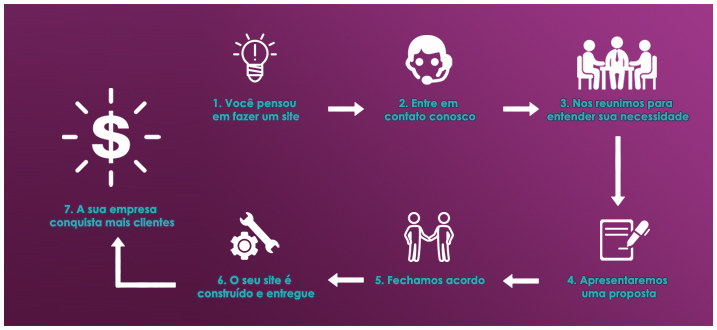
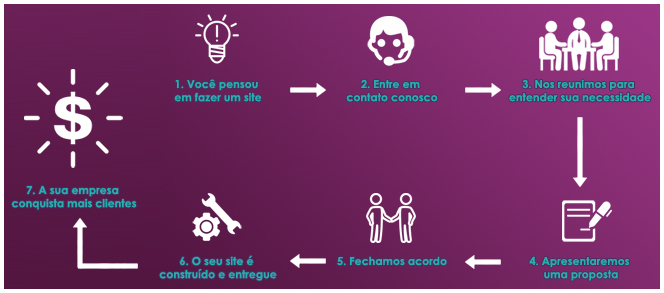
Modificações no big-title
-Mudana no fundo transparente com BG para fundo de cor sólida;
-Modificação no padding antes fixo em pixels para % visando melhor
apresentação em dispositivos de pequena resolução;
-Botão verde mudou para Azul;
-Removida área perdida da imagem "como trabalhamos" para melhor
visualização em dispositivos de pequena .resolução

diff --git a/themes/jlsites-theme/style.css b/themes/jlsites-theme/style.css
@@ -14,11 +14,29 @@
 
 /* ---- BIG TITLE ---- */ 
 .header-content-wrap {
-   padding: 180px 0 140px;
+   background: #26b1ae;
+   padding: 15% 0 10%;
 }
 
 .header-content-wrap .section-header {
-   padding-bottom: 40px;
+    padding-bottom: 40px;
+}
+
+/* --- Botoes --- */
+.header-content-wrap .blue-btn {
+    background: #5647d2;
+}
+
+.header-content-wrap .blue-btn:hover {
+    background: #3b309c;
+}
+
+.header-content-wrap .red-btn {
+    background: #e8442f;
+}
+
+.header-content-wrap .red-btn:hover {
+    background: #c53421;
 }
 
 /* Flexbox container */

diff --git a/themes/jlsites-theme/sections/big_title.php b/themes/jlsites-theme/sections/big_title.php
@@ -65,7 +65,7 @@
 
 				if ( !empty($zerif_bigtitle_greenbutton_label) && !empty($zerif_bigtitle_greenbutton_url) ):
 
-					echo '<a href="'.esc_url( $zerif_bigtitle_greenbutton_url ).'" class="btn btn-primary custom-button green-btn">'.wp_kses_post( $zerif_bigtitle_greenbutton_label ).'</a>';
+					echo '<a href="'.esc_url( $zerif_bigtitle_greenbutton_url ).'" class="btn btn-primary custom-button blue-btn">'.wp_kses_post( $zerif_bigtitle_greenbutton_label ).'</a>';
 
 				elseif ( isset( $wp_customize ) ):
 
